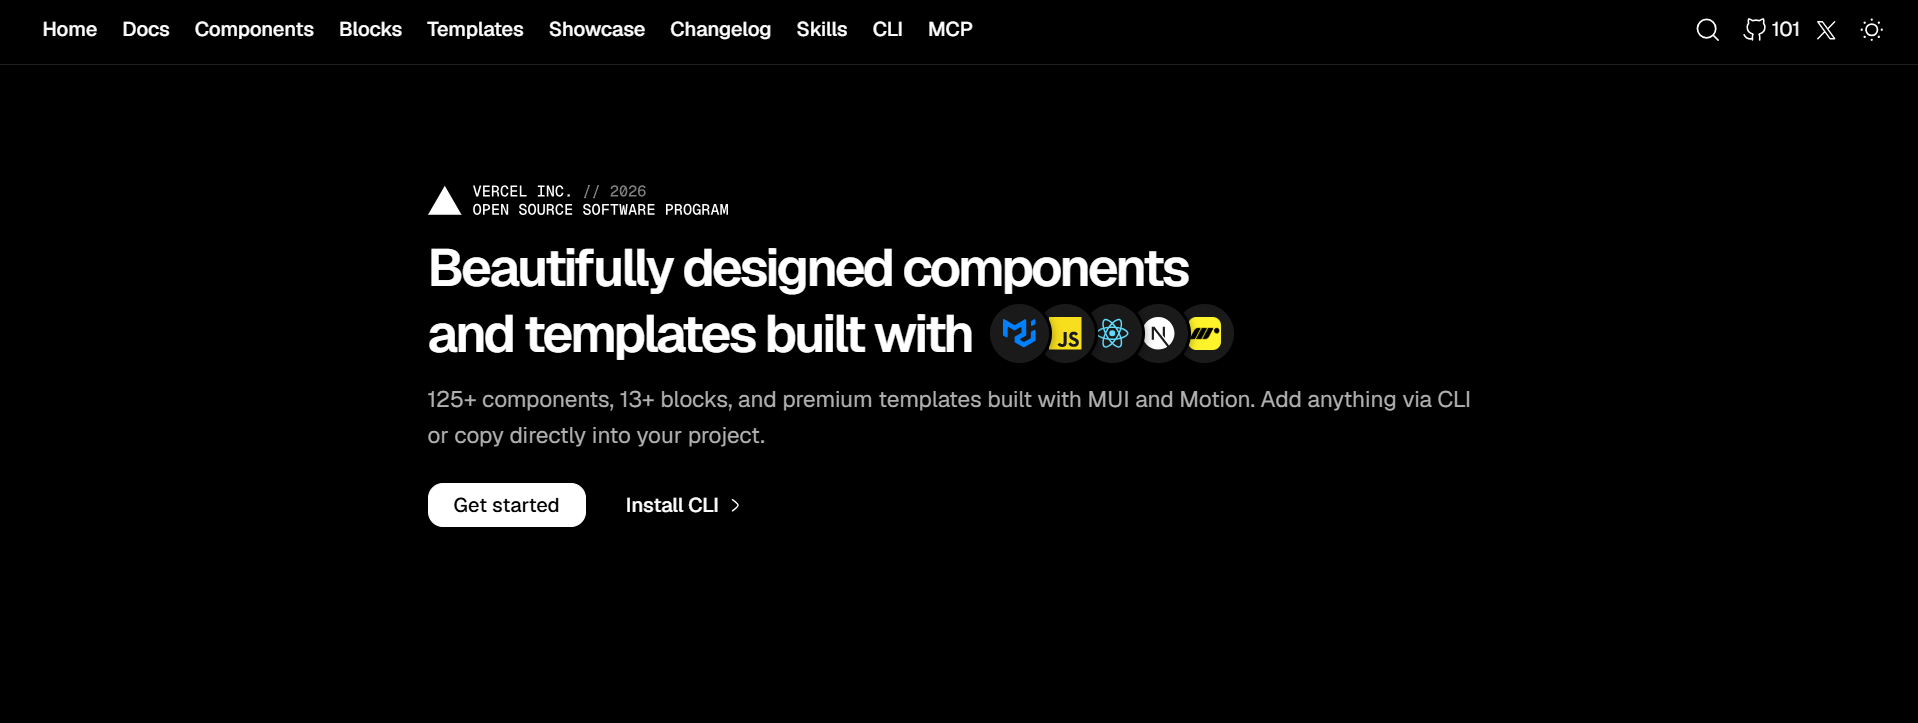
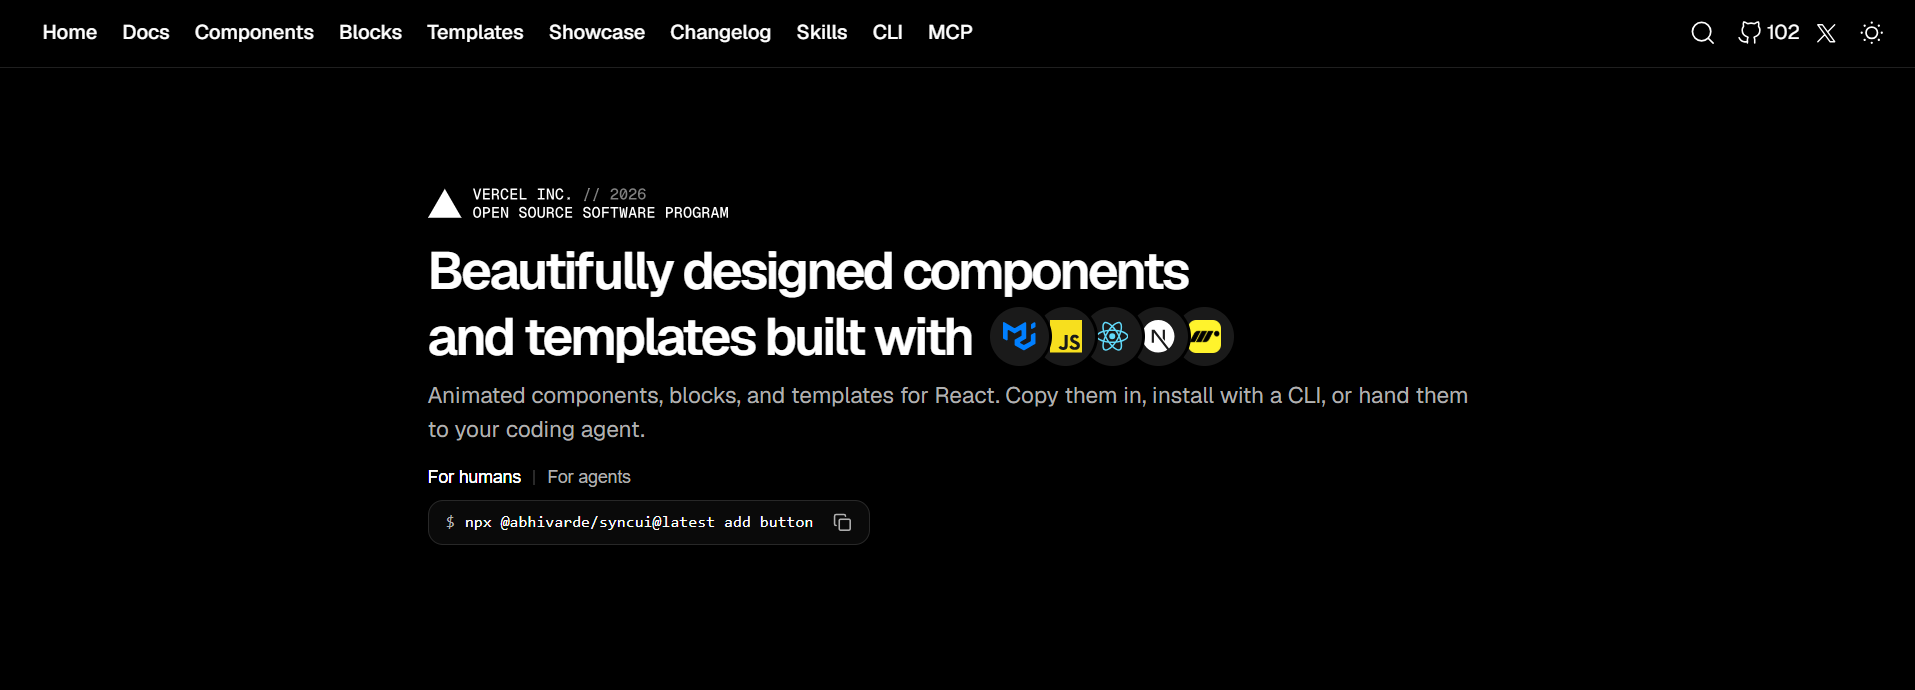
docs: update readme cli section with init command

diff --git a/components/home/HeroSection.jsx b/components/home/HeroSection.jsx
@@ -29,7 +29,7 @@ const TECH_ICONS = [
 ];
 
 const COMMANDS = {
-  humans: "npx @abhivarde/syncui@latest add button",
+  humans: "npx @abhivarde/syncui@latest add hero",
   agents: "npx skills add AbhiVarde/syncui",
 };
 
